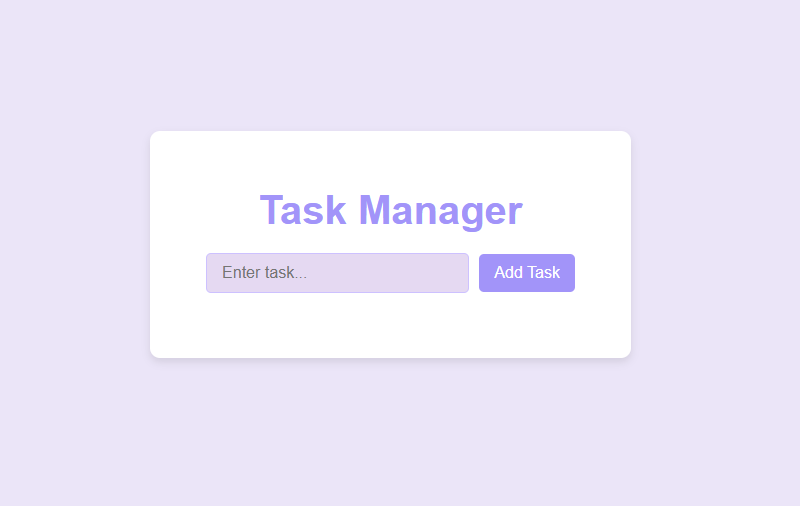
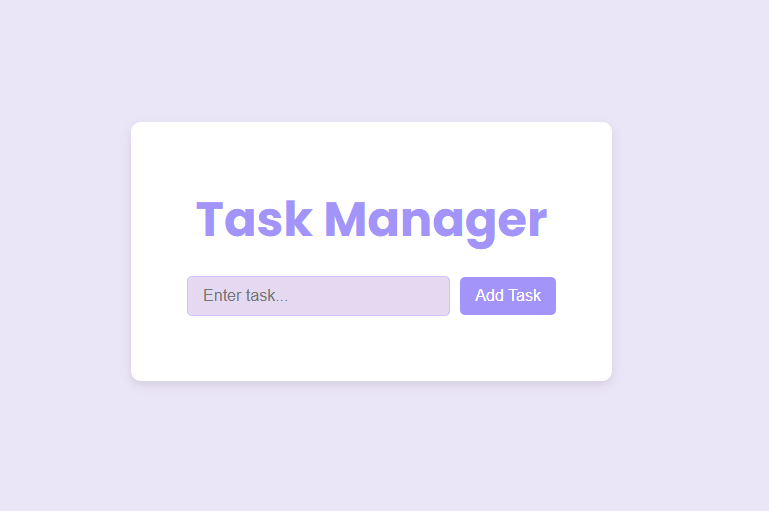
style: update typography and background styles for AddTask and Home components

Changed region(s): [[0.2185, 0.3854, 0.749, 0.6225], [0.156, 0.2372, 0.8114, 0.7708]]

diff --git a/src/components/styles/home.css b/src/components/styles/home.css
@@ -1,6 +1,10 @@
 /* Home.css */
+@import url('https://fonts.googleapis.com/css2?family=Poppins:ital,wght@0,100;0,200;0,300;0,400;0,500;0,600;0,700;0,800;0,900;1,100;1,200;1,300;1,400;1,500;1,600;1,700;1,800;1,900&display=swap');
+
+
 body{
-    background: #bbb4cc93; 
+    background: #b197f586; 
+    font-family: 'Poppins', sans-serif;
 
 }
 .home-container {

diff --git a/src/components/styles/addTask.css b/src/components/styles/addTask.css
@@ -29,11 +29,11 @@ body {
 
 /* Heading */
 .taskManagerContainer h1 {
-    font-size: 2.5rem;
+    font-size: 3rem;
+    font-weight: 700;
     margin-bottom: 20px;
     color: #A294F9; /* Bold purple */
     text-align: center;
-    font-weight: 600;
 }
 
 .taskManagerContainer div{
